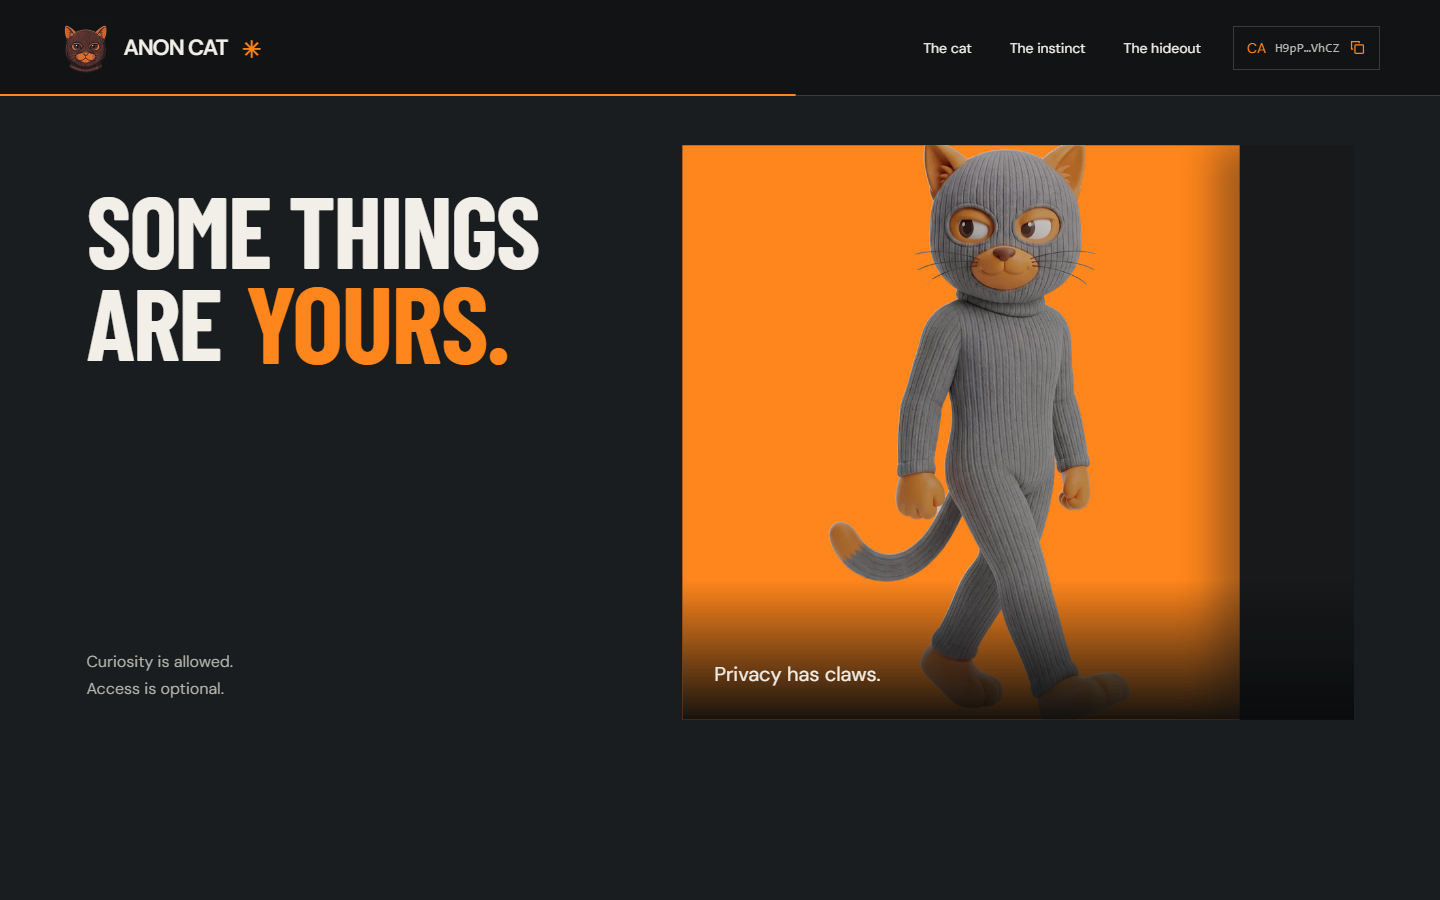
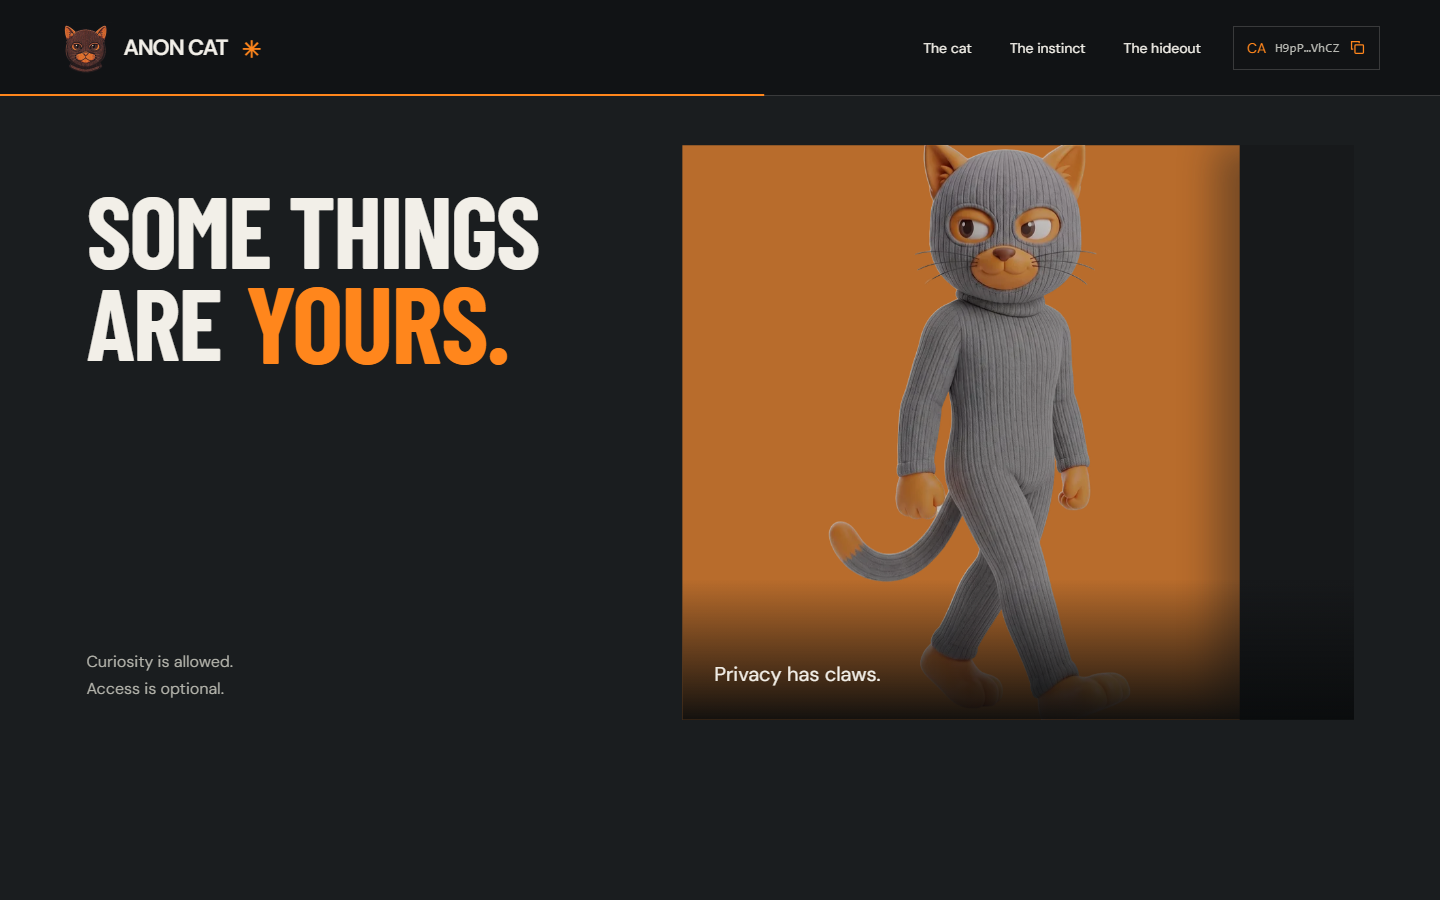
Match privacy story orange backdrop and lighting

Changed region(s): [[0.4688, 0.1556, 0.875, 0.7778]]

diff --git a/src/app/globals.css b/src/app/globals.css
@@ -10,7 +10,7 @@
 .hero-scene .peek-cat{left:47%;top:32%;width:24%;height:36%;z-index:2}
 @media(max-width:700px){.hero-scene .peek-cat{left:48%;top:32%;width:25%;height:35%}}
 .section-top{display:flex;justify-content:space-between;align-items:center;border-bottom:1px solid currentColor;padding-bottom:24px;opacity:.8}.section-top .eyebrow{margin:0;font-size:11px;letter-spacing:1.7px}.tiny-label{font-size:10px;letter-spacing:1.3px}.display-title{font-family:var(--display);font-size:clamp(64px,6.3vw,108px);line-height:.91;letter-spacing:-.02em;font-weight:600;margin:0}.display-title em{font-style:normal;color:var(--orange)}.section-description{font-size:17px;line-height:1.6;color:#676761;margin:24px 0 30px}.file-section{background:var(--paper);color:var(--ink);padding:54px 6% 94px}.file-grid{display:grid;grid-template-columns:1fr 1fr;gap:8%;padding-top:66px;align-items:center}.file-art{position:relative;min-height:660px;display:flex;align-items:flex-end;justify-content:center;isolation:isolate}.file-orange-disc{position:absolute;width:88%;aspect-ratio:1;border-radius:50%;background:var(--orange);z-index:-1;left:3%;top:15%;}.seated-cat{position:relative;width:100%;height:590px;object-fit:contain;object-position:bottom}.file-corner{position:absolute;top:0;left:0;font-size:10px;letter-spacing:1.6px}.art-footnote{position:absolute;bottom:-30px;left:0;font-size:12px;color:#72726b}.character-file{border-top:1px solid #bcbab2;border-bottom:1px solid #bcbab2;margin-bottom:28px}.file-copy .section-description{margin-bottom:44px}.file-header{position:relative;min-height:84px;padding:20px 0;display:flex;align-items:center;justify-content:space-between;font-size:10px;letter-spacing:1.1px}.file-stamp{position:absolute;right:14px;top:-22px;width:clamp(164px,14vw,210px);border:4px solid currentColor;color:var(--orange);padding:8px 12px;font-family:var(--display);font-size:28px;font-weight:700;line-height:.96;letter-spacing:1.6px;text-align:center;transform:rotate(-12deg);pointer-events:none}.file-stamp>span{display:block}dl{margin:0}.file-row{display:grid;grid-template-columns:32% 68%;padding:17px 0;border-top:1px solid #d0cdc4;gap:12px;font-size:14px}.file-row dt{color:#77766d}.file-row dd{margin:0;position:relative;width:max-content;max-width:100%}.file-value{transition:opacity .32s}.redaction-bar{position:absolute;inset:-2px -5px;background:var(--ink);transform-origin:left;transform:scaleX(0);transition:transform .4s cubic-bezier(.2,.8,.2,1)}.is-redacted .redaction-bar{transform:scaleX(1)}.is-redacted .file-value{opacity:0}.file-row:nth-child(2) .redaction-bar{transition-delay:.04s}.file-row:nth-child(3) .redaction-bar{transition-delay:.08s}.file-row:nth-child(4) .redaction-bar{transition-delay:.12s}.file-row:nth-child(5) .redaction-bar{transition-delay:.16s}.file-bottom{display:flex;justify-content:space-between;align-items:center;padding:13px 0;border-top:1px solid #d0cdc4;font-size:9px;letter-spacing:1.2px;color:#75746c}.file-bottom>span:last-child{font-size:22px;color:var(--orange)}.dark-button{background:var(--ink);color:var(--paper);min-height:50px}.dark-button:hover{background:#36383a}
-.ethos-section{padding:55px 6% 92px;background:#1a1d1f}.ethos-section .section-top{color:#9e9f98}.ethos-heading{display:flex;justify-content:space-between;align-items:flex-end;padding:64px 0 50px}.ethos-heading>p{font-size:17px;line-height:1.65;color:#b2b2aa;max-width:270px;margin-bottom:0}.ethos-sequence{display:grid;grid-template-columns:1fr 1fr 1fr;gap:22px;align-items:start}.ethos-frame{margin:0;position:relative;isolation:isolate;height:450px;overflow:hidden;background:#282b2e}.ethos-frame img{width:100%;height:100%;object-fit:cover}.ethos-frame figcaption{position:absolute;z-index:3;bottom:0;left:0;right:0;padding:55px 20px 22px;background:linear-gradient(transparent,rgba(10,12,13,.95));display:flex;flex-direction:column;gap:10px;font-size:15px;line-height:1.4;color:var(--paper)}.panel-frame{height:380px;margin-top:65px}.panel-frame img{object-position:50% 50%;filter:brightness(.9)}.silhouette-frame{background:var(--orange);height:445px}.silhouette-frame img{object-fit:contain;object-position:65% 100%;width:120%;max-width:none;filter:brightness(.65)}.silhouette-occluder{position:absolute;inset:0 0 0 60%;background:#17191b;z-index:2;box-shadow:-12px 0 18px #17191b40}.relaxed-frame{height:380px;margin-top:65px}.relaxed-frame img{filter:brightness(.8)}.monero-editorial{border-top:1px solid var(--line);margin-top:66px;padding-top:42px;display:grid;grid-template-columns:1fr 2fr;gap:10%}.monero-editorial .eyebrow{align-self:start;font-size:10px;letter-spacing:1px;line-height:1.6}.monero-editorial>div{max-width:660px}.monero-editorial>div>p:first-child{font-size:26px;line-height:1.3;margin:0 0 22px;letter-spacing:-.6px}.monero-explanation{font-size:15px;line-height:1.75;color:#aeb0a8;margin:0 0 24px}.text-link{font-size:14px;border-bottom:1px solid #74746c;padding:0 0 7px;display:inline-flex;gap:35px;align-items:center}.text-link:hover{color:var(--orange);border-color:var(--orange)}.external-label{font-size:9px;letter-spacing:1.2px;color:#92958d}
+.ethos-section{padding:55px 6% 92px;background:#1a1d1f}.ethos-section .section-top{color:#9e9f98}.ethos-heading{display:flex;justify-content:space-between;align-items:flex-end;padding:64px 0 50px}.ethos-heading>p{font-size:17px;line-height:1.65;color:#b2b2aa;max-width:270px;margin-bottom:0}.ethos-sequence{display:grid;grid-template-columns:1fr 1fr 1fr;gap:22px;align-items:start}.ethos-frame{margin:0;position:relative;isolation:isolate;height:450px;overflow:hidden;background:#282b2e}.ethos-frame img{width:100%;height:100%;object-fit:cover}.ethos-frame figcaption{position:absolute;z-index:3;bottom:0;left:0;right:0;padding:55px 20px 22px;background:linear-gradient(transparent,rgba(10,12,13,.95));display:flex;flex-direction:column;gap:10px;font-size:15px;line-height:1.4;color:var(--paper)}.panel-frame{height:380px;margin-top:65px}.panel-frame img{object-position:50% 50%;filter:brightness(.9)}.silhouette-frame{background:#b86c2c;height:445px}.silhouette-frame img{object-fit:contain;object-position:65% 100%;width:120%;max-width:none;filter:brightness(.8)}.silhouette-occluder{position:absolute;inset:0 0 0 60%;background:#17191b;z-index:2;box-shadow:-12px 0 18px #17191b40}.relaxed-frame{height:380px;margin-top:65px}.relaxed-frame img{filter:brightness(.8)}.monero-editorial{border-top:1px solid var(--line);margin-top:66px;padding-top:42px;display:grid;grid-template-columns:1fr 2fr;gap:10%}.monero-editorial .eyebrow{align-self:start;font-size:10px;letter-spacing:1px;line-height:1.6}.monero-editorial>div{max-width:660px}.monero-editorial>div>p:first-child{font-size:26px;line-height:1.3;margin:0 0 22px;letter-spacing:-.6px}.monero-explanation{font-size:15px;line-height:1.75;color:#aeb0a8;margin:0 0 24px}.text-link{font-size:14px;border-bottom:1px solid #74746c;padding:0 0 7px;display:inline-flex;gap:35px;align-items:center}.text-link:hover{color:var(--orange);border-color:var(--orange)}.external-label{font-size:9px;letter-spacing:1.2px;color:#92958d}
 .footer{padding:54px 6% 25px;background:var(--ink);position:relative;overflow:hidden}
 .footer-top{display:grid;grid-template-columns:minmax(0,1fr) 210px;align-items:center;gap:24px 32px;padding-bottom:28px;border-bottom:1px solid var(--line);position:relative;isolation:isolate}
 .footer-top .brand{grid-column:1 / -1;justify-self:start}

diff --git a/docs/test-results.md b/docs/test-results.md
@@ -1,5 +1,7 @@
 # Production verification — 2026-10-01
 
+The privacy story's walking backdrop now uses #B86C2C, matching the warm orange range in the doorway and relaxed portraits. Its character brightness is 0.8 on both compact and desktop layouts. Original portrait files, corrected eyes, scene composition and choreography are preserved. Production build, strict TypeScript and lint passed. Three existing Chromium checks passed for desktop scenes/shutters/reverse scrolling, responsive pin cleanup and compact mask reveals. Actual mobile and desktop captures verified the final background/filter, all loaded scenes, no horizontal overflow and no page errors. The browser recording was refreshed. No media generation, new asset, dependency or performance benchmark was needed.
+
 The personal file's small gray status label is replaced by a tilted orange outlined IDENTITY UNKNOWN stamp with two-line bold lettering. It remains unchanged when details are redacted. Existing local fonts are reused. Production build and strict TypeScript passed; lint and three existing Chromium checks passed for accessible redaction/restore, production request/error auditing and keyboard/media recovery. The final heavier type and header-spacing refinement was build-checked and captured at 320, 390, 701, 768, 1440 and 1920px. Those checks verified the orange text, clearance from the intro/label/first row, no horizontal overflow and successful redaction/restore at every width. No new performance benchmark was run.
 
 The footer cat now peeks around an orange panel, with its paw over the edge and the torso concealed by a foreground sill. The existing transparent artwork is reused; no media generation or new dependency was required. Its entrance waits for both image layers to decode and animates them together, keeping the paw registered with the face. Production build, strict TypeScript, lint and seven existing Chromium checks passed (five responsive layouts, the production request/error audit and keyboard/media recovery). Additional captures at 320, 390, 768, 1440 and 1920px verified no headline overlap or horizontal overflow, loaded artwork and the full official CA. Re-entry produced identical in-flight transforms on both image layers. Simulated WebP failure recovered both layers to the local PNG. No new performance benchmark was run.

diff --git a/README.md b/README.md
@@ -36,6 +36,8 @@ The hiding pose uses the original close-up face with a continuation from the exi
 
 The relaxed privacy portrait matches the main character's rounded brown irises, dark central pupils and highlights while retaining its lowered eyelids. Its corrected WebP and PNG use the versioned `relaxed-eyes` filename. The previous master is archived in `art-source/portraits/relaxed-original-master.png`; correction provenance is in `eye-correction.json`.
 
+The privacy story's walking scene uses a warm #B86C2C backdrop to match the shaded orange portraits. Its character brightness is consistent between compact and desktop layouts, with no new raster asset or change to the approved portrait artwork.
+
 The footer reuses the peeking pose behind an orange panel. A clipped copy of the same artwork keeps its paw in front, and a sill conceals the torso crop. Both image layers decode before a shared 650ms entrance, which replays on re-entry. Responsive grid columns keep the scene clear of the headline and contract-address controls.
 
 Automatic character motion repeats with a 2.5-second rest, resumes after Come back, and replays on returning to the hero or browser tab. PNG poster recovery can animate. The motion switch and saved preference were removed at the user’s request; animation stays enabled after reload.
